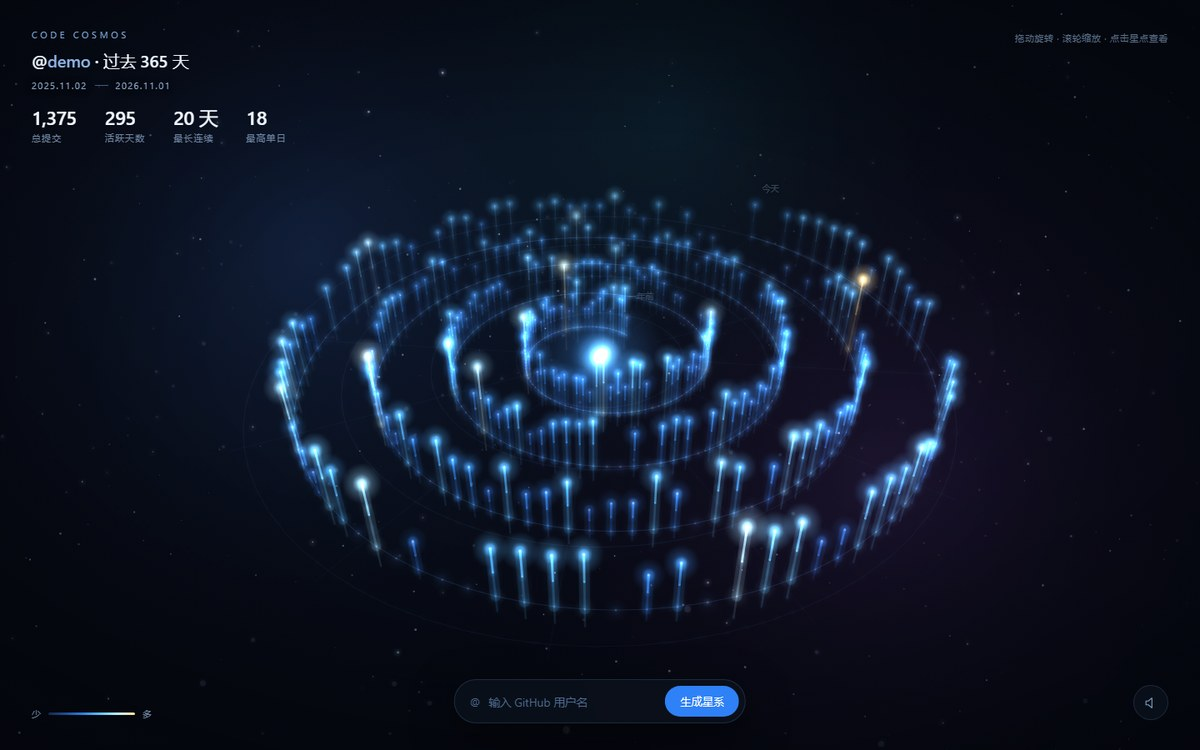
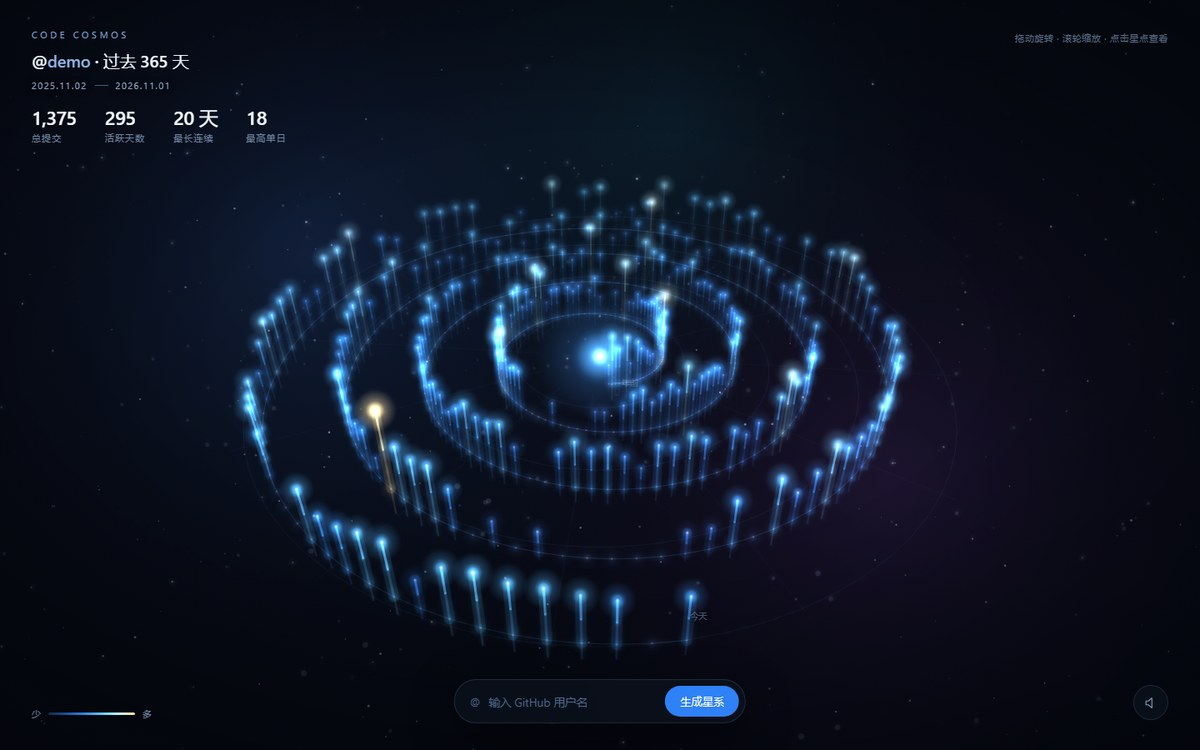
tune: 螺旋相位前移，让「今天」落在镜头这一侧
- 原来终点在远侧（画面上方），读起来像「今天在背后」
- 加 PHASE = -2.35 旋转整条螺旋，终点转到画面下方靠近观察者
- 一年前留在内圈，形成「从脚下开始、向远处收拢」的时间纵深

Changed region(s): [[0.185, 0.2453, 0.8017, 0.8587]]

diff --git a/index.html b/index.html
@@ -375,6 +375,7 @@
   var dust = [];
   var TURNS = 4;
   var R0 = 74, RMAX = 522;
+  var PHASE = -2.35;      /* 螺旋相位：让终点「今天」落在镜头这一侧 */
 
   function layout(days) {
     var n = days.length;
@@ -384,7 +385,7 @@
     for (var i = 0; i < n; i++) if (days[i].count > max) max = days[i].count;
 
     stars = days.map(function (d, i) {
-      var th = i * dTheta;
+      var th = i * dTheta + PHASE;
       var r = R0 + i * dR;
       var t = d.count === 0 ? 0 : Math.pow(d.count / max, 0.62);
       return {

diff --git a/README.md b/README.md
@@ -97,6 +97,7 @@ python -m http.server 8000
 | v1.3 | 时间范围标注、回正视角按钮、拖拽灵敏度与视差幅度调低 |
 | v1.4 | 时间锚点直接落在星云上（一年前 / 今天），随视角转动并按深度淡出 |
 | v1.5 | 修正相机在平面下方导致的仰视错觉，改为俯视；画面重心上移 |
+| v1.6 | 螺旋相位调整：终点「今天」转到镜头正前方，时间从脚下向远处收拢 |
 
 ## License
 
